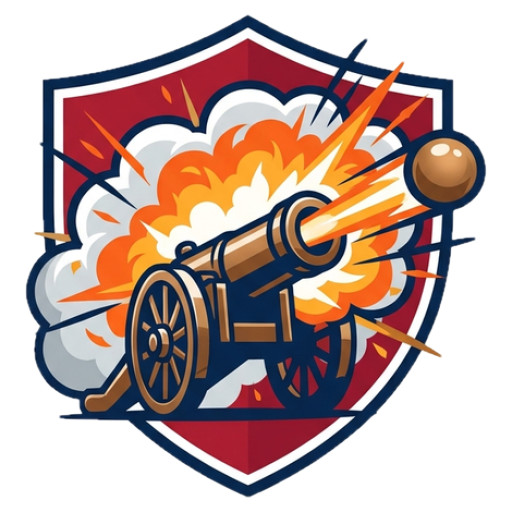
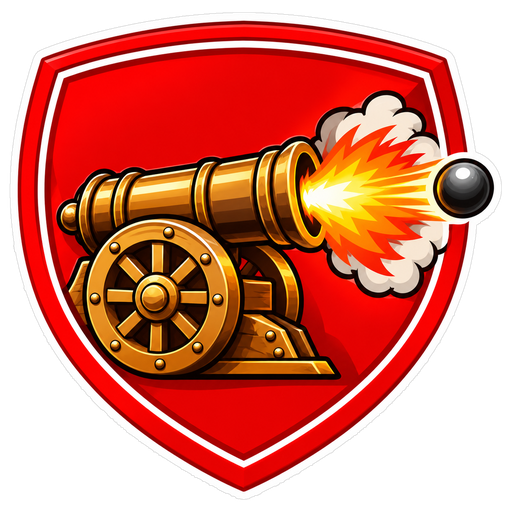
New Arsenal crest: straight sticker, bright red shield, fat cannon (dev)

diff --git a/frontend/src/data/avatars.ts b/frontend/src/data/avatars.ts
@@ -33,7 +33,7 @@ const CLUB_BY_NAME = new Map(
 
 // "?v=" makes phones fetch a crest again after its picture is replaced
 // (Telegram's web view keeps the old file otherwise). Raise it with each new set.
-const CREST_VERSION = '2026-11-24c'
+const CREST_VERSION = '2026-11-25'
 export const clubBadge = (name?: string | null): string | null => {
   const src = (name && (CLUB_BY_NAME.get(name) || EXTRA_SHIELDS[name])) || null
   return src ? `${src}?v=${CREST_VERSION}` : null

diff --git a/changelogs/CHANGELOG-2026-11-22-release-2.2-prep.md b/changelogs/CHANGELOG-2026-11-22-release-2.2-prep.md
@@ -97,3 +97,4 @@ Files: `frontend/public/avatars/clubs/*.png` (512 px), `frontend/src/styles/Chal
 - 24 Nov: owner: the white sticker edges were the "frames". Cut the white edge off all 27 crests (script scratchpad noedge.py, originals in git history before fa3ce7b). Dev deployed main fa3ce7b; release-2.1 committed, NOT live yet.
 - 24 Nov: crest white edges cut DEPLOYED LIVE (release-2.1 e9e7ee6), verified.
 - 24 Nov: owner did not believe the live check. Live screenshot at 3x showed a grey shadow rim still on Arsenal + Dortmund (first cut took only bright white). Second cut (grey too, wider band; Arsenal widest) -> dev deployed + checked in the dev app, main e14f077 / release-2.1 3044fc0, live waiting for "deploy". LESSON: check at phone sharpness (3x) before saying done.
+- 25 Nov: tilts dropped. New crest style = simple sticker, shield straight from the front, even white edge (prompt in club-crests.md). Arsenal redrawn (bright red, fat cannon), original in betty-crests/v7, on DEV, checked at 3x. Live untouched. Next: same style for other clubs one by one.
